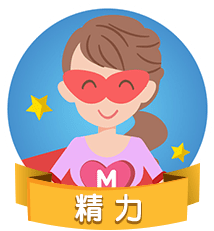
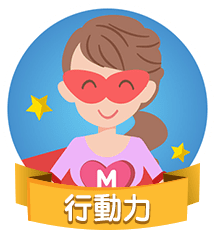
20180413-05

Changed region(s): [[0.2804, 0.8182, 0.729, 0.9697]]

diff --git a/201709_BBH2.0/html/web/bbh-blog-list-masonry.html b/201709_BBH2.0/html/web/bbh-blog-list-masonry.html
@@ -336,7 +336,187 @@
                         <li><a href="#">網誌</a></li>
                     </ol>
                     <div class="masonry">
-                        <!--網誌里程碑-->
+                        <div class="masonry-column">
+                            <div class="card-span blog-list">
+                                <div class="card-inner">
+                                    <div class="card-body">
+                                        <div class="body-inner">
+                                            <div class="txt-holder">
+                                                <h3 class="post-title"><a href="bbh-blog-post.html" title="逗孩子很好玩？其實是大人的一種惡習！">逗孩子很好玩？其實是大人的一種惡習！</a></h3>
+                                                <div class="post-detail">
+                                                    <span class="time-tage">2017年11月6日</span>
+                                                    <div class="flex-h"><span>公開</span><i class="icon-earth-full flex-h"></i></div>
+                                                    <div class="flex-h"><span>1,515</span><i class="icon-eye flex-h"></i></div>
+                                                </div>
+                                                <p class="post-context shorten"><a href="bbh-blog-post.html">尊敬的尹老師，您好：我女兒一歲半了。昨天晚上我和她爸爸逗她玩，她爸爸伸手做出要抱她的樣子，我女兒已經張開手了，她爸爸又把手縮回去，並做出轉身要走的樣子，我女兒有點莫名其妙。她爸爸第二次伸手做出要抱她的樣子，我女兒猶豫了一下，還是張開了手，但她爸爸又把手縮回去。這時候我女兒帶著點尷尬的表情，當她爸爸再伸手的時候，我女兒搖了搖頭，不看她爸爸了。她爸爸想強行抱她，她就用手撥開爸爸的手，不讓爸爸抱，而且整個晚上都對她爸爸不理不睬，平時她是最喜歡和她爸爸玩了。</a></p>
+                                            </div>
+                                            <div class="respond-option flex-h">
+                                                <div class="dropdown option-action hover-drop">
+                                                    <a href="" data-toggle="dropdown" role="button" aria-haspopup="true" aria-expanded="false" class="pre-act"><i class="icon-heart-line"></i></a><span>2</span>
+                                                    <div class="dropdown-menu dir-top menu-wide">
+                                                        <div class="profile-avator-xs">
+                                                            <a href="＃" data-toggle="tooltip" data-placement="bottom" title="BabyHome活動小編"><img src="http://lorempixel.com/80/80/people" alt=""></a>
+                                                        </div>
+                                                        <div class="profile-avator-xs">
+                                                            <a href="＃" data-toggle="tooltip" data-placement="bottom" title="BabyHome活動小編"><img src="http://lorempixel.com/80/80/people" alt=""></a>
+                                                        </div>
+                                                        <div class="profile-avator-xs">
+                                                            <a href="＃" data-toggle="tooltip" data-placement="bottom" title="BabyHome活動小編"><img src="http://lorempixel.com/80/80/people" alt=""></a>
+                                                        </div>
+                                                        <div class="profile-avator-xs">
+                                                            <a href="＃" data-toggle="tooltip" data-placement="bottom" title="BabyHome活動小編"><img src="http://lorempixel.com/80/80/people" alt=""></a>
+                                                        </div>
+                                                        <div class="profile-avator-xs">
+                                                            <a href="＃" data-toggle="tooltip" data-placement="bottom" title="BabyHome活動小編"><img src="http://lorempixel.com/80/80/people" alt=""></a>
+                                                        </div>
+                                                        <div class="profile-avator-xs">
+                                                            <a href="＃" data-toggle="modal" data-target="#favoriteList"><i class="icon-plus more"></i></a>
+                                                        </div>
+                                                    </div>
+                                                </div>
+                                                <div class="option-action"><a href="" data-toggle="tooltip" data-placement="bottom" title="留言"><i class="icon-chat-line"></i></a><span>2</span></div>
+                                            </div>
+                                        </div>
+                                    </div>
+                                </div>
+                            </div>
+                        </div>
+                        <div class="masonry-column">
+                            <div class="card-span blog-list">
+                                <div class="card-inner">
+                                    <div class="card-body">
+                                        <div class="body-inner">
+                                            <div class="txt-holder">
+                                                <h3 class="post-title"><a href="bbh-blog-post.html" title="逗孩子很好玩？其實是大人的一種惡習！">逗孩子很好玩？其實是大人的一種惡習！</a></h3>
+                                                <div class="post-detail">
+                                                    <span class="time-tage">2017年11月6日</span>
+                                                    <div class="flex-h"><span>公開</span><i class="icon-earth-full flex-h"></i></div>
+                                                    <div class="flex-h"><span>1,515</span><i class="icon-eye flex-h"></i></div>
+                                                </div>
+                                                <p class="post-context shorten"><a href="bbh-blog-post.html">尊敬的尹老師，您好：我女兒一歲半了。昨天晚上我和她爸爸逗她玩，她爸爸伸手做出要抱她的樣子，我女兒已經張開手了，她爸爸又把手縮回去，並做出轉身要走的樣子，我女兒有點莫名其妙。她爸爸第二次伸手做出要抱她的樣子，我女兒猶豫了一下，還是張開了手，但她爸爸又把手縮回去。這時候我女兒帶著點尷尬的表情，當她爸爸再伸手的時候，我女兒搖了搖頭，不看她爸爸了。她爸爸想強行抱她，她就用手撥開爸爸的手，不讓爸爸抱，而且整個晚上都對她爸爸不理不睬，平時她是最喜歡和她爸爸玩了。</a></p>
+                                            </div>
+                                            <div class="respond-option flex-h">
+                                                <div class="dropdown option-action hover-drop">
+                                                    <a href="" data-toggle="dropdown" role="button" aria-haspopup="true" aria-expanded="false" class="pre-act"><i class="icon-heart-line"></i></a><span>2</span>
+                                                    <div class="dropdown-menu dir-top menu-wide">
+                                                        <div class="profile-avator-xs">
+                                                            <a href="＃" data-toggle="tooltip" data-placement="bottom" title="BabyHome活動小編"><img src="http://lorempixel.com/80/80/people" alt=""></a>
+                                                        </div>
+                                                        <div class="profile-avator-xs">
+                                                            <a href="＃" data-toggle="tooltip" data-placement="bottom" title="BabyHome活動小編"><img src="http://lorempixel.com/80/80/people" alt=""></a>
+                                                        </div>
+                                                        <div class="profile-avator-xs">
+                                                            <a href="＃" data-toggle="tooltip" data-placement="bottom" title="BabyHome活動小編"><img src="http://lorempixel.com/80/80/people" alt=""></a>
+                                                        </div>
+                                                        <div class="profile-avator-xs">
+                                                            <a href="＃" data-toggle="tooltip" data-placement="bottom" title="BabyHome活動小編"><img src="http://lorempixel.com/80/80/people" alt=""></a>
+                                                        </div>
+                                                        <div class="profile-avator-xs">
+                                                            <a href="＃" data-toggle="tooltip" data-placement="bottom" title="BabyHome活動小編"><img src="http://lorempixel.com/80/80/people" alt=""></a>
+                                                        </div>
+                                                        <div class="profile-avator-xs">
+                                                            <a href="＃" data-toggle="modal" data-target="#favoriteList"><i class="icon-plus more"></i></a>
+                                                        </div>
+                                                    </div>
+                                                </div>
+                                                <div class="option-action"><a href="" data-toggle="tooltip" data-placement="bottom" title="留言"><i class="icon-chat-line"></i></a><span>2</span></div>
+                                            </div>
+                                        </div>
+                                    </div>
+                                </div>
+                            </div>
+                        </div>
+                        <div class="masonry-column">
+                            <div class="card-span blog-list">
+                                <div class="card-inner">
+                                    <div class="card-body">
+                                        <div class="body-inner">
+                                            <div class="txt-holder">
+                                                <h3 class="post-title"><a href="bbh-blog-post.html" title="逗孩子很好玩？其實是大人的一種惡習！">逗孩子很好玩？其實是大人的一種惡習！</a></h3>
+                                                <div class="post-detail">
+                                                    <span class="time-tage">2017年11月6日</span>
+                                                    <div class="flex-h"><span>公開</span><i class="icon-earth-full flex-h"></i></div>
+                                                    <div class="flex-h"><span>1,515</span><i class="icon-eye flex-h"></i></div>
+                                                </div>
+                                                <p class="post-context shorten"><a href="bbh-blog-post.html">尊敬的尹老師，您好：我女兒一歲半了。昨天晚上我和她爸爸逗她玩，她爸爸伸手做出要抱她的樣子，我女兒已經張開手了，她爸爸又把手縮回去，並做出轉身要走的樣子，我女兒有點莫名其妙。她爸爸第二次伸手做出要抱她的樣子，我女兒猶豫了一下，還是張開了手，但她爸爸又把手縮回去。這時候我女兒帶著點尷尬的表情，當她爸爸再伸手的時候，我女兒搖了搖頭，不看她爸爸了。她爸爸想強行抱她，她就用手撥開爸爸的手，不讓爸爸抱，而且整個晚上都對她爸爸不理不睬，平時她是最喜歡和她爸爸玩了。</a></p>
+                                            </div>
+                                            <div class="respond-option flex-h">
+                                                <div class="dropdown option-action hover-drop">
+                                                    <a href="" data-toggle="dropdown" role="button" aria-haspopup="true" aria-expanded="false" class="pre-act"><i class="icon-heart-line"></i></a><span>2</span>
+                                                    <div class="dropdown-menu dir-top menu-wide">
+                                                        <div class="profile-avator-xs">
+                                                            <a href="＃" data-toggle="tooltip" data-placement="bottom" title="BabyHome活動小編"><img src="http://lorempixel.com/80/80/people" alt=""></a>
+                                                        </div>
+                                                        <div class="profile-avator-xs">
+                                                            <a href="＃" data-toggle="tooltip" data-placement="bottom" title="BabyHome活動小編"><img src="http://lorempixel.com/80/80/people" alt=""></a>
+                                                        </div>
+                                                        <div class="profile-avator-xs">
+                                                            <a href="＃" data-toggle="tooltip" data-placement="bottom" title="BabyHome活動小編"><img src="http://lorempixel.com/80/80/people" alt=""></a>
+                                                        </div>
+                                                        <div class="profile-avator-xs">
+                                                            <a href="＃" data-toggle="tooltip" data-placement="bottom" title="BabyHome活動小編"><img src="http://lorempixel.com/80/80/people" alt=""></a>
+                                                        </div>
+                                                        <div class="profile-avator-xs">
+                                                            <a href="＃" data-toggle="tooltip" data-placement="bottom" title="BabyHome活動小編"><img src="http://lorempixel.com/80/80/people" alt=""></a>
+                                                        </div>
+                                                        <div class="profile-avator-xs">
+                                                            <a href="＃" data-toggle="modal" data-target="#favoriteList"><i class="icon-plus more"></i></a>
+                                                        </div>
+                                                    </div>
+                                                </div>
+                                                <div class="option-action"><a href="" data-toggle="tooltip" data-placement="bottom" title="留言"><i class="icon-chat-line"></i></a><span>2</span></div>
+                                            </div>
+                                        </div>
+                                    </div>
+                                </div>
+                            </div>
+                        </div>
+                        <div class="masonry-column">
+                            <div class="card-span blog-list">
+                                <div class="card-inner">
+                                    <div class="card-body">
+                                        <div class="body-inner">
+                                            <div class="txt-holder">
+                                                <h3 class="post-title"><a href="bbh-blog-post.html" title="逗孩子很好玩？其實是大人的一種惡習！">逗孩子很好玩？其實是大人的一種惡習！</a></h3>
+                                                <div class="post-detail">
+                                                    <span class="time-tage">2017年11月6日</span>
+                                                    <div class="flex-h"><span>公開</span><i class="icon-earth-full flex-h"></i></div>
+                                                    <div class="flex-h"><span>1,515</span><i class="icon-eye flex-h"></i></div>
+                                                </div>
+                                                <p class="post-context shorten"><a href="bbh-blog-post.html">尊敬的尹老師，您好：我女兒一歲半了。昨天晚上我和她爸爸逗她玩，她爸爸伸手做出要抱她的樣子，我女兒已經張開手了，她爸爸又把手縮回去，並做出轉身要走的樣子，我女兒有點莫名其妙。她爸爸第二次伸手做出要抱她的樣子，我女兒猶豫了一下，還是張開了手，但她爸爸又把手縮回去。這時候我女兒帶著點尷尬的表情，當她爸爸再伸手的時候，我女兒搖了搖頭，不看她爸爸了。她爸爸想強行抱她，她就用手撥開爸爸的手，不讓爸爸抱，而且整個晚上都對她爸爸不理不睬，平時她是最喜歡和她爸爸玩了。</a></p>
+                                            </div>
+                                            <div class="respond-option flex-h">
+                                                <div class="dropdown option-action hover-drop">
+                                                    <a href="" data-toggle="dropdown" role="button" aria-haspopup="true" aria-expanded="false" class="pre-act"><i class="icon-heart-line"></i></a><span>2</span>
+                                                    <div class="dropdown-menu dir-top menu-wide">
+                                                        <div class="profile-avator-xs">
+                                                            <a href="＃" data-toggle="tooltip" data-placement="bottom" title="BabyHome活動小編"><img src="http://lorempixel.com/80/80/people" alt=""></a>
+                                                        </div>
+                                                        <div class="profile-avator-xs">
+                                                            <a href="＃" data-toggle="tooltip" data-placement="bottom" title="BabyHome活動小編"><img src="http://lorempixel.com/80/80/people" alt=""></a>
+                                                        </div>
+                                                        <div class="profile-avator-xs">
+                                                            <a href="＃" data-toggle="tooltip" data-placement="bottom" title="BabyHome活動小編"><img src="http://lorempixel.com/80/80/people" alt=""></a>
+                                                        </div>
+                                                        <div class="profile-avator-xs">
+                                                            <a href="＃" data-toggle="tooltip" data-placement="bottom" title="BabyHome活動小編"><img src="http://lorempixel.com/80/80/people" alt=""></a>
+                                                        </div>
+                                                        <div class="profile-avator-xs">
+                                                            <a href="＃" data-toggle="tooltip" data-placement="bottom" title="BabyHome活動小編"><img src="http://lorempixel.com/80/80/people" alt=""></a>
+                                                        </div>
+                                                        <div class="profile-avator-xs">
+                                                            <a href="＃" data-toggle="modal" data-target="#favoriteList"><i class="icon-plus more"></i></a>
+                                                        </div>
+                                                    </div>
+                                                </div>
+                                                <div class="option-action"><a href="" data-toggle="tooltip" data-placement="bottom" title="留言"><i class="icon-chat-line"></i></a><span>2</span></div>
+                                            </div>
+                                        </div>
+                                    </div>
+                                </div>
+                            </div>
+                        </div>
+                        <!--網誌里程碑
                         <div class="masonry-column">
                             <div class="card-span blog-list">
                                 <div class="card-inner">
@@ -389,51 +569,7 @@
                                 </div>
                             </div>
                         </div>
-                        <div class="masonry-column">
-                            <div class="card-span blog-list">
-                                <div class="card-inner">
-                                    <div class="card-body">
-                                        <div class="body-inner">
-                                            <div class="txt-holder">
-                                                <h3 class="post-title"><a href="bbh-blog-post.html" title="逗孩子很好玩？其實是大人的一種惡習！">逗孩子很好玩？其實是大人的一種惡習！</a></h3>
-                                                <div class="post-detail">
-                                                    <span class="time-tage">2017年11月6日</span>
-                                                    <div class="flex-h"><span>公開</span><i class="icon-earth-full flex-h"></i></div>
-                                                    <div class="flex-h"><span>1,515</span><i class="icon-eye flex-h"></i></div>
-                                                </div>
-                                                <p class="post-context shorten"><a href="bbh-blog-post.html">尊敬的尹老師，您好：我女兒一歲半了。昨天晚上我和她爸爸逗她玩，她爸爸伸手做出要抱她的樣子，我女兒已經張開手了，她爸爸又把手縮回去，並做出轉身要走的樣子，我女兒有點莫名其妙。她爸爸第二次伸手做出要抱她的樣子，我女兒猶豫了一下，還是張開了手，但她爸爸又把手縮回去。這時候我女兒帶著點尷尬的表情，當她爸爸再伸手的時候，我女兒搖了搖頭，不看她爸爸了。她爸爸想強行抱她，她就用手撥開爸爸的手，不讓爸爸抱，而且整個晚上都對她爸爸不理不睬，平時她是最喜歡和她爸爸玩了。</a></p>
-                                            </div>
-                                            <div class="respond-option flex-h">
-                                                <div class="dropdown option-action hover-drop">
-                                                    <a href="" data-toggle="dropdown" role="button" aria-haspopup="true" aria-expanded="false" class="pre-act"><i class="icon-heart-line"></i></a><span>2</span>
-                                                    <div class="dropdown-menu dir-top menu-wide">
-                                                        <div class="profile-avator-xs">
-                                                            <a href="＃" data-toggle="tooltip" data-placement="bottom" title="BabyHome活動小編"><img src="http://lorempixel.com/80/80/people" alt=""></a>
-                                                        </div>
-                                                        <div class="profile-avator-xs">
-                                                            <a href="＃" data-toggle="tooltip" data-placement="bottom" title="BabyHome活動小編"><img src="http://lorempixel.com/80/80/people" alt=""></a>
-                                                        </div>
-                                                        <div class="profile-avator-xs">
-                                                            <a href="＃" data-toggle="tooltip" data-placement="bottom" title="BabyHome活動小編"><img src="http://lorempixel.com/80/80/people" alt=""></a>
-                                                        </div>
-                                                        <div class="profile-avator-xs">
-                                                            <a href="＃" data-toggle="tooltip" data-placement="bottom" title="BabyHome活動小編"><img src="http://lorempixel.com/80/80/people" alt=""></a>
-                                                        </div>
-                                                        <div class="profile-avator-xs">
-                                                            <a href="＃" data-toggle="tooltip" data-placement="bottom" title="BabyHome活動小編"><img src="http://lorempixel.com/80/80/people" alt=""></a>
-                                                        </div>
-                                                        <div class="profile-avator-xs">
-                                                            <a href="＃" data-toggle="modal" data-target="#favoriteList"><i class="icon-plus more"></i></a>
-                                                        </div>
-                                                    </div>
-                                                </div>
-                                                <div class="option-action"><a href="" data-toggle="tooltip" data-placement="bottom" title="留言"><i class="icon-chat-line"></i></a><span>2</span></div>
-                                            </div>
-                                        </div>
-                                    </div>
-                                </div>
-                            </div>
-                        </div>
+                        
                         <div class="masonry-column">
                             <div class="card-span blog-list">
                                 <div class="card-inner">
@@ -894,6 +1030,7 @@
                                 </div>
                             </div>
                         </div>
+                        -->
                     </div>
                 </div>
                 <ul class="pagination pagination-bbh">

diff --git a/201709_BBH2.0/html/web/bbh-member-sp.html b/201709_BBH2.0/html/web/bbh-member-sp.html
@@ -180,7 +180,7 @@
                                 <input type="radio" name="options" id="option3" autocomplete="off">充滿母愛的溫柔魅力
                             </label>
                             <label class="btn btn-04">
-                                <input type="radio" name="options" id="option4" autocomplete="off">24小時隨時待命的精力
+                                <input type="radio" name="options" id="option4" autocomplete="off">使命必達的行動力
                             </label>
                             <label class="btn btn-05">
                                 <input type="radio" name="options" id="option5" autocomplete="off">聰慧解決大小問題的腦力
